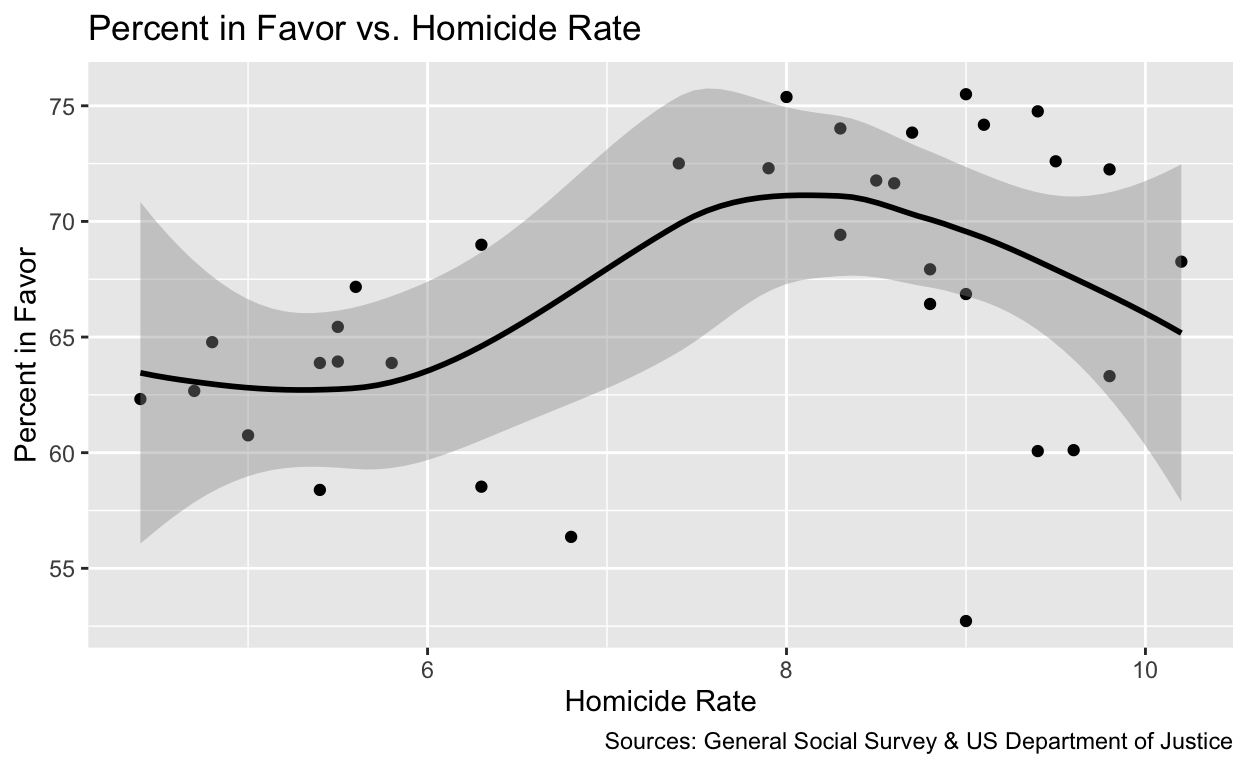
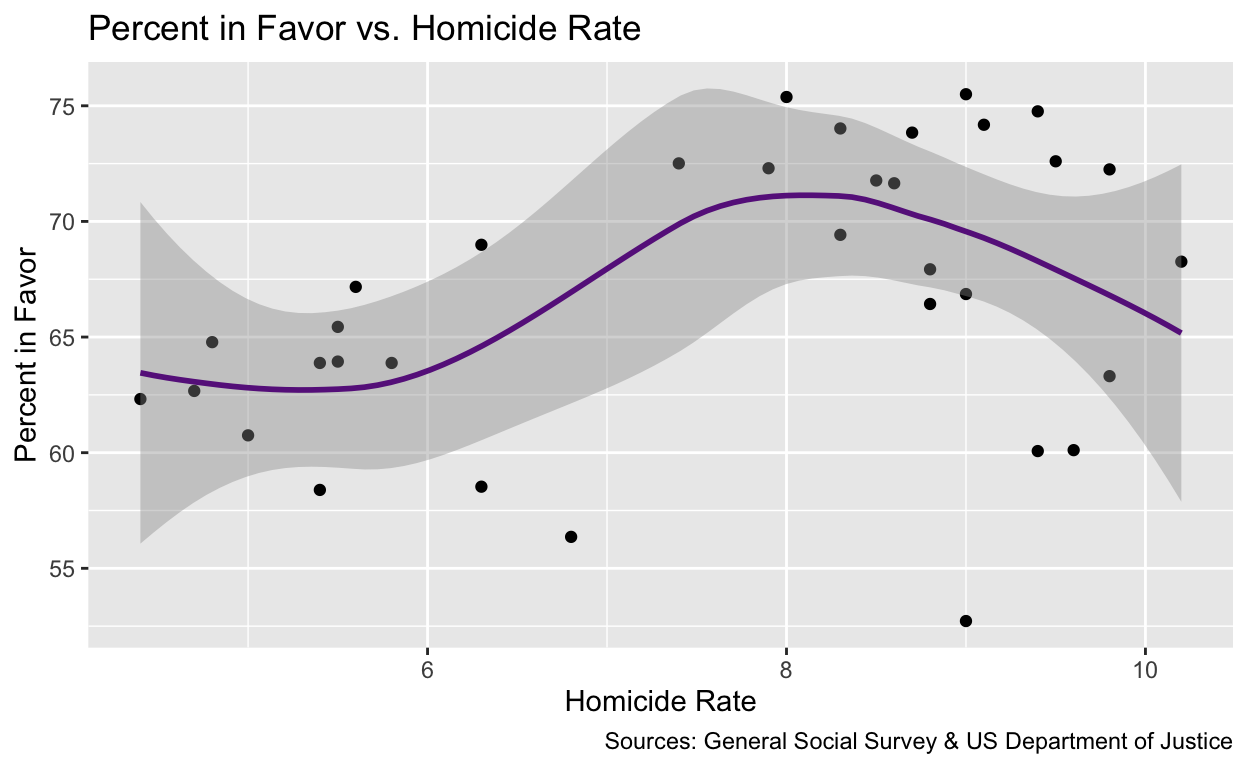
11:40am

diff --git a/index.html b/index.html
@@ -4108,9 +4108,11 @@ R2 Adj.
 <p>For a bit of secondary analysis, I decided to investigate potential factors or conditions that impact public support for capital punishment. First, to explore the relationship between the homicide rate and public support for the death penalty, I ran a regression using “Percent_Support” as the response variable and “Homicide_Rate” as the explanatory variable and plotted these two variables on a scatter plot with a smoothed trend line.</p>
 <div class="layout-chunk" data-layout="l-body">
 <div class="sourceCode">
-<pre class="sourceCode r"><code class="sourceCode r"><span><span class='va'>lm_support_1</span> <span class='op'>&lt;-</span> <span class='fu'><a href='https://rdrr.io/r/stats/lm.html'>lm</a></span><span class='op'>(</span><span class='va'>Percent_Support</span> <span class='op'>~</span> <span class='va'>Homicide_Rate</span>,</span>
-<span>              data <span class='op'>=</span> <span class='va'>deathpenalty</span><span class='op'>)</span> </span>
+<pre class="sourceCode r"><code class="sourceCode r"><span><span class='va'>varnames5</span> <span class='op'>&lt;-</span> <span class='fu'><a href='https://rdrr.io/r/base/c.html'>c</a></span><span class='op'>(</span><span class='st'>"(Intercept)"</span> <span class='op'>=</span> <span class='st'>"Intercept"</span>,</span>
+<span>               <span class='st'>"Homicide_Rate"</span> <span class='op'>=</span> <span class='st'>"Homicide Rate"</span><span class='op'>)</span></span>
 <span></span>
+<span><span class='va'>lm_support_1</span> <span class='op'>&lt;-</span> <span class='fu'><a href='https://rdrr.io/r/stats/lm.html'>lm</a></span><span class='op'>(</span><span class='va'>Percent_Support</span> <span class='op'>~</span> <span class='va'>Homicide_Rate</span>,</span>
+<span>              data <span class='op'>=</span> <span class='va'>deathpenalty</span><span class='op'>)</span> </span>
 <span><span class='fu'><a href='https://rdrr.io/r/base/summary.html'>summary</a></span><span class='op'>(</span><span class='va'>lm_support_1</span><span class='op'>)</span></span></code></pre>
 </div>
 <pre><code>
@@ -4136,7 +4138,8 @@ F-statistic: 5.836 on 1 and 32 DF,  p-value: 0.02159</code></pre>
 <pre class="sourceCode r"><code class="sourceCode r"><span><span class='fu'>modelsummary</span><span class='fu'>::</span><span class='fu'><a href='https://rdrr.io/pkg/modelsummary/man/modelsummary.html'>modelsummary</a></span><span class='op'>(</span><span class='fu'><a href='https://rdrr.io/r/base/list.html'>list</a></span><span class='op'>(</span>Regression <span class='op'>=</span> <span class='va'>lm_support_1</span><span class='op'>)</span>,</span>
 <span>                           statistic <span class='op'>=</span> <span class='fu'><a href='https://rdrr.io/r/base/c.html'>c</a></span><span class='op'>(</span><span class='st'>"s.e. = {std.error}"</span>,</span>
 <span>                                         <span class='st'>"p = {p.value}"</span><span class='op'>)</span>,</span>
-<span>                           gof_map <span class='op'>=</span> <span class='fu'><a href='https://rdrr.io/r/base/c.html'>c</a></span><span class='op'>(</span><span class='st'>"nobs"</span>, <span class='st'>"r.squared"</span>, <span class='st'>"adj.r.squared"</span><span class='op'>)</span><span class='op'>)</span></span></code></pre>
+<span>                           gof_map <span class='op'>=</span> <span class='fu'><a href='https://rdrr.io/r/base/c.html'>c</a></span><span class='op'>(</span><span class='st'>"nobs"</span>, <span class='st'>"r.squared"</span>, <span class='st'>"adj.r.squared"</span><span class='op'>)</span>,</span>
+<span>                           coef_map <span class='op'>=</span> <span class='va'>varnames5</span><span class='op'>)</span></span></code></pre>
 </div>
 <table class="table" style="width: auto !important; margin-left: auto; margin-right: auto;">
 <thead>
@@ -4151,7 +4154,7 @@ Regression
 <tbody>
 <tr>
 <td style="text-align:left;">
-(Intercept)
+Intercept
 </td>
 <td style="text-align:center;">
 56.884
@@ -4173,7 +4176,7 @@ p = &lt;0.001
 </tr>
 <tr>
 <td style="text-align:left;">
-Homicide_Rate
+Homicide Rate
 </td>
 <td style="text-align:center;">
 1.311
@@ -4222,7 +4225,7 @@ R2 Adj.
 <div class="sourceCode">
 <pre class="sourceCode r"><code class="sourceCode r"><span><span class='va'>support_plot_1</span> <span class='op'>&lt;-</span> <span class='fu'><a href='https://ggplot2.tidyverse.org/reference/ggplot.html'>ggplot</a></span><span class='op'>(</span>data <span class='op'>=</span> <span class='va'>deathpenalty</span>,</span>
 <span>  mapping <span class='op'>=</span> <span class='fu'><a href='https://ggplot2.tidyverse.org/reference/aes.html'>aes</a></span><span class='op'>(</span>x <span class='op'>=</span> <span class='va'>Homicide_Rate</span>, y <span class='op'>=</span> <span class='va'>Percent_Support</span><span class='op'>)</span><span class='op'>)</span> <span class='op'>+</span> </span>
-<span>  <span class='fu'><a href='https://ggplot2.tidyverse.org/reference/geom_point.html'>geom_point</a></span><span class='op'>(</span><span class='op'>)</span> <span class='op'>+</span> <span class='fu'><a href='https://ggplot2.tidyverse.org/reference/geom_smooth.html'>geom_smooth</a></span><span class='op'>(</span>color <span class='op'>=</span> <span class='st'>"black"</span><span class='op'>)</span> <span class='op'>+</span> </span>
+<span>  <span class='fu'><a href='https://ggplot2.tidyverse.org/reference/geom_point.html'>geom_point</a></span><span class='op'>(</span><span class='op'>)</span> <span class='op'>+</span> <span class='fu'><a href='https://ggplot2.tidyverse.org/reference/geom_smooth.html'>geom_smooth</a></span><span class='op'>(</span>color <span class='op'>=</span> <span class='st'>"darkorchid4"</span><span class='op'>)</span> <span class='op'>+</span> </span>
 <span>  <span class='fu'><a href='https://ggplot2.tidyverse.org/reference/labs.html'>labs</a></span><span class='op'>(</span>x <span class='op'>=</span> <span class='st'>"Homicide Rate"</span>, </span>
 <span>       y <span class='op'>=</span> <span class='st'>"Percent in Favor"</span>, </span>
 <span>       title <span class='op'>=</span> <span class='st'>"Percent in Favor vs. Homicide Rate"</span>, </span>
@@ -4236,9 +4239,11 @@ R2 Adj.
 <p>Then, to explore the relationship between the rate of financial dissatisfaction and public support for the death penalty, I ran a regression using “Percent_Support” as the response variable and “Fin_Dissatisfaction” as the explanatory variable. I also plotted these two variables on a scatter plot with a smoothed trend line.</p>
 <div class="layout-chunk" data-layout="l-body">
 <div class="sourceCode">
-<pre class="sourceCode r"><code class="sourceCode r"><span><span class='va'>lm_support_2</span> <span class='op'>&lt;-</span> <span class='fu'><a href='https://rdrr.io/r/stats/lm.html'>lm</a></span><span class='op'>(</span><span class='va'>Percent_Support</span> <span class='op'>~</span> <span class='va'>Fin_Dissatisfaction</span>,</span>
-<span>              data <span class='op'>=</span> <span class='va'>deathpenalty</span><span class='op'>)</span> </span>
+<pre class="sourceCode r"><code class="sourceCode r"><span><span class='va'>varnames6</span> <span class='op'>&lt;-</span> <span class='fu'><a href='https://rdrr.io/r/base/c.html'>c</a></span><span class='op'>(</span><span class='st'>"(Intercept)"</span> <span class='op'>=</span> <span class='st'>"Intercept"</span>,</span>
+<span>               <span class='st'>"Fin_Dissatisfaction"</span> <span class='op'>=</span> <span class='st'>"Financial Dissatisfaction"</span><span class='op'>)</span></span>
 <span></span>
+<span><span class='va'>lm_support_2</span> <span class='op'>&lt;-</span> <span class='fu'><a href='https://rdrr.io/r/stats/lm.html'>lm</a></span><span class='op'>(</span><span class='va'>Percent_Support</span> <span class='op'>~</span> <span class='va'>Fin_Dissatisfaction</span>,</span>
+<span>              data <span class='op'>=</span> <span class='va'>deathpenalty</span><span class='op'>)</span> </span>
 <span><span class='fu'><a href='https://rdrr.io/r/base/summary.html'>summary</a></span><span class='op'>(</span><span class='va'>lm_support_2</span><span class='op'>)</span></span></code></pre>
 </div>
 <pre><code>
@@ -4264,7 +4269,8 @@ F-statistic: 0.2946 on 1 and 32 DF,  p-value: 0.5911</code></pre>
 <pre class="sourceCode r"><code class="sourceCode r"><span><span class='fu'>modelsummary</span><span class='fu'>::</span><span class='fu'><a href='https://rdrr.io/pkg/modelsummary/man/modelsummary.html'>modelsummary</a></span><span class='op'>(</span><span class='fu'><a href='https://rdrr.io/r/base/list.html'>list</a></span><span class='op'>(</span>Regression <span class='op'>=</span> <span class='va'>lm_support_2</span><span class='op'>)</span>,</span>
 <span>                           statistic <span class='op'>=</span> <span class='fu'><a href='https://rdrr.io/r/base/c.html'>c</a></span><span class='op'>(</span><span class='st'>"s.e. = {std.error}"</span>,</span>
 <span>                                         <span class='st'>"p = {p.value}"</span><span class='op'>)</span>,</span>
-<span>                           gof_map <span class='op'>=</span> <span class='fu'><a href='https://rdrr.io/r/base/c.html'>c</a></span><span class='op'>(</span><span class='st'>"nobs"</span>, <span class='st'>"r.squared"</span>, <span class='st'>"adj.r.squared"</span><span class='op'>)</span><span class='op'>)</span></span></code></pre>
+<span>                           gof_map <span class='op'>=</span> <span class='fu'><a href='https://rdrr.io/r/base/c.html'>c</a></span><span class='op'>(</span><span class='st'>"nobs"</span>, <span class='st'>"r.squared"</span>, <span class='st'>"adj.r.squared"</span><span class='op'>)</span>,</span>
+<span>                           coef_map <span class='op'>=</span> <span class='va'>varnames6</span><span class='op'>)</span></span></code></pre>
 </div>
 <table class="table" style="width: auto !important; margin-left: auto; margin-right: auto;">
 <thead>
@@ -4279,7 +4285,7 @@ Regression
 <tbody>
 <tr>
 <td style="text-align:left;">
-(Intercept)
+Intercept
 </td>
 <td style="text-align:center;">
 61.167
@@ -4301,7 +4307,7 @@ p = &lt;0.001
 </tr>
 <tr>
 <td style="text-align:left;">
-Fin_Dissatisfaction
+Financial Dissatisfaction
 </td>
 <td style="text-align:center;">
 0.223
@@ -4350,7 +4356,7 @@ R2 Adj.
 <div class="sourceCode">
 <pre class="sourceCode r"><code class="sourceCode r"><span><span class='va'>support_plot_2</span> <span class='op'>&lt;-</span> <span class='fu'><a href='https://ggplot2.tidyverse.org/reference/ggplot.html'>ggplot</a></span><span class='op'>(</span>data <span class='op'>=</span> <span class='va'>deathpenalty</span>,</span>
 <span>  mapping <span class='op'>=</span> <span class='fu'><a href='https://ggplot2.tidyverse.org/reference/aes.html'>aes</a></span><span class='op'>(</span>x <span class='op'>=</span> <span class='va'>Fin_Dissatisfaction</span>, y <span class='op'>=</span> <span class='va'>Percent_Support</span><span class='op'>)</span><span class='op'>)</span> <span class='op'>+</span> </span>
-<span>  <span class='fu'><a href='https://ggplot2.tidyverse.org/reference/geom_point.html'>geom_point</a></span><span class='op'>(</span><span class='op'>)</span> <span class='op'>+</span> <span class='fu'><a href='https://ggplot2.tidyverse.org/reference/geom_smooth.html'>geom_smooth</a></span><span class='op'>(</span>color <span class='op'>=</span> <span class='st'>"black"</span><span class='op'>)</span> <span class='op'>+</span> </span>
+<span>  <span class='fu'><a href='https://ggplot2.tidyverse.org/reference/geom_point.html'>geom_point</a></span><span class='op'>(</span><span class='op'>)</span> <span class='op'>+</span> <span class='fu'><a href='https://ggplot2.tidyverse.org/reference/geom_smooth.html'>geom_smooth</a></span><span class='op'>(</span>color <span class='op'>=</span> <span class='st'>"blue"</span><span class='op'>)</span> <span class='op'>+</span> </span>
 <span>  <span class='fu'><a href='https://ggplot2.tidyverse.org/reference/labs.html'>labs</a></span><span class='op'>(</span>x <span class='op'>=</span> <span class='st'>"Financial Dissatisfaction"</span>, </span>
 <span>       y <span class='op'>=</span> <span class='st'>"Percent in Favor"</span>, </span>
 <span>       title <span class='op'>=</span> <span class='st'>"Percent in Favor vs. Financial Dissatisfaction"</span>, </span>
@@ -4502,22 +4508,27 @@ R2 Adj.
 </div>
 <p>In this multiple regression, the relationship between the homicide rate and public support remains statistically significant and the relationship between the rate of financial dissatisfaction and public support remains not statistically significant. However, compared to the __ regressions, the coefficient and the standard error for homicide rate increased slightly, and its p-value decreased. ___</p>
 <h2 id="conclusion">Conclusion</h2>
+<p>Ultimately, my analyses provide support for H1 (), but not for H2 () or H().</p>
+<p>For H1, my findings suggest that</p>
+<p>For H2, my findings show a statistically significant relationship between the homicide rate and the number of executions. However, contrary to my hypothesis, this relationship/correlation is negative. In other words, as the homicide rate increases, the number of executions decrease, and as the homicide rate decreases, the number of executions increase. This finding was particularly surprising to me and certainly warrants further research. One potential explanation may be reverse causality. Though still widely debated, some scholars maintain that capital punishment/executions act as a deterrent to violent crime. Further analyses, then, should investigate the relationship between these two variables using the number of executions as the explanatory variable and the homicide rate as the response variable.</p>
+<p>For H3, my findings show a statistically significant relationship between the number of exonerations and the number of executions.</p>
 <h2 id="works-cited">Works Cited</h2>
-<p>Data:</p>
-<p>Bureau of Justice Statistics. (2011). Homicide Trends In The United States. U.S. Department of
+<p><strong>Data:</strong></p>
+<p>Bureau of Justice Statistics. (2011). “Homicide Trends In The United States.” U.S. Department of
 Justice. Data accessed using the Internet Archive’s Wayback Machine,
 <a href="https://web.archive.org/web/20110727134213/http://bjs.ojp.usdoj.gov/content/homicide/tables/totalstab.cfm" class="uri">https://web.archive.org/web/20110727134213/http://bjs.ojp.usdoj.gov/content/homicide/tables/totalstab.cfm</a></p>
-<p>Crime Data Explorer. (2023). Trend of Homicide from 1985 to 2022. Federal Bureau of Investigations.
+<p>Crime Data Explorer. (2023). “Trend of Homicide from 1985 to 2022.” Federal Bureau of Investigations.
 <a href="https://cde.ucr.cjis.gov/LATEST/webapp/#/pages/explorer/crime/crime-trend" class="uri">https://cde.ucr.cjis.gov/LATEST/webapp/#/pages/explorer/crime/crime-trend</a></p>
-<p>Davern, Michael et. al., National Opinion Research Center at the University of Chicago.(2023).
-General Social Survey 1972-2022. Sponsored by National Science Foundation. Data
+<p>Davern, Michael et. al., National Opinion Research Center at the University of Chicago. (2023).
+“General Social Survey 1972-2022.” Sponsored by National Science Foundation. Data
 accessed from the GSS Data Explorer website at gssdataexplorer.norc.org.</p>
-<p>Snell, Tracy L., U.S. Department of Justice. (2023). Prisoners Executed. Bureau of Justice
+<p>Death Penalty Information Center. (2023). Innocence Database.
+<a href="https://deathpenaltyinfo.org/database/innocence" class="uri">https://deathpenaltyinfo.org/database/innocence</a></p>
+<p>Snell, Tracy L., U.S. Department of Justice. (2023). “Prisoners Executed.” Bureau of Justice
 Statistics. <a href="https://bjs.ojp.gov/library/publications/prisoners-executed" class="uri">https://bjs.ojp.gov/library/publications/prisoners-executed</a>.</p>
-<p>Death Penalty Information Center</p>
-<p>Academic Literature:</p>
-<p>Steiker, Carol S., and Jordan M. Steiker. Courting Death: The Supreme Court and Capital
-Punishment. Cambridge, MA: The Belknap Press of Harvard University Press, 2016.</p>
+<p><strong>Academic Literature:</strong></p>
+<p>Steiker, Carol S., and Jordan M. Steiker. “Courting Death: The Supreme Court and Capital
+Punishment.” Cambridge, MA: The Belknap Press of Harvard University Press, 2016.</p>
 <p>Steiker, Carol S., and Jordan M. Steiker. “Entrenchment and/or Destabilization? Reflections on
 (Another) Two Decades of Constitutional Regulation of Capital Punishment.” Law and
 Inequality: A Journal of Theory and Practice 30, no. 2 (August 10, 2012).</p>
